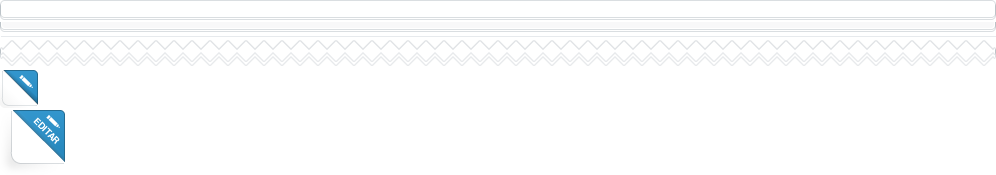
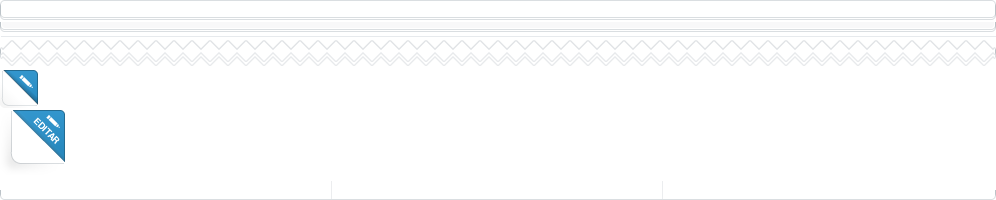
Fixes home index

diff --git a/public/stylesheets/main.css b/public/stylesheets/main.css
@@ -1409,9 +1409,11 @@ body.home #container .article.participation div.wrap div.login_block { width: 10
 body.home #container .article.participation div.wrap div.login_block p { float: right; font-size: 18px; }
 body.home #container .article.participation div.wrap div.login_block p a { font: bold 18px "Helvetica",Arial; }
 body.home #container .article.participation div.wrap div.login_block p a.blue_button { padding: 11px 30px; text-align: center; margin: 0 0 0 10px; }
-body.home #container .article#areas div.areas_list { position: relative; display: block; width: 994px; height: 488px; padding: 0; margin: 0; background: white; border-left: 1px solid #B5BDC4; border-right: 1px solid #B5BDC4; }
-body.home #container .article#areas div.areas_list ul { position: absolute; top: -9px; left: 0; width: 100%; margin: 0; background: none; border: none; }
+body.home #container .article#areas .f { bottom: -10px; background-position: 0 -181px; height: 19px; }
+body.home #container .article#areas div.areas_list { position: relative; display: block; width: 994px; padding: 0; margin: 0; background: white; border-left: 1px solid #B5BDC4; border-right: 1px solid #B5BDC4; }
+body.home #container .article#areas div.areas_list ul { position: relative; top: -9px; left: 0; width: 100%; margin: 0; background: none; border: none; }
 body.home #container .article#areas div.areas_list ul li { float: left; width: 270px; height: 74px; padding: 25px 30px; border-right: 1px solid #ECEDEF; border-bottom: 1px solid #ECEDEF; background: none; }
+body.home #container .article#areas div.areas_list ul li.small a { font-size: 16px; }
 body.home #container .article#areas div.areas_list ul li div.avatar { float: left; width: 67px; }
 body.home #container .article#areas div.areas_list ul li div.info { float: left; width: 190px; margin: 0 0 0 10px; padding: 10px 0 0 0; }
 body.home #container .article#areas div.areas_list ul li div.info h3 { font: bold 17px "Helvetica",Arial!important; }
@@ -1419,6 +1421,7 @@ body.home #container .article#areas div.areas_list ul li div.info h3 a { color: 
 body.home #container .article#areas div.areas_list ul li div.info span.total { display: block; margin: 5px 0 0 0; padding: 0; font-size: 13!important; color: #666666; }
 body.home #container .article#areas div.areas_list ul li div.info span.total a { font-size: 13px!important; }
 body.home #container .article#areas div.areas_list ul li.last { width: 272px; border-right: none; }
+body.home #container .article#areas div.areas_list ul li.last-row { margin-bottom: 0; border-bottom: none; }
 body.home #container .article#areas div.areas_list div.all_areas { position: absolute; display: none; top: 400px; }
 body.home #container .article#areas div.areas_list div.all_areas h4 { width: 100%; display: block; margin: 0 0 0 30px; font: bold 12px "Helvetica",Arial; color: #465866; text-transform: uppercase; }
 body.home #container .article#areas div.areas_list div.all_areas ul.list { position: relative; padding: 20px 0 0 0; }

diff --git a/public/stylesheets/style.css b/public/stylesheets/style.css
@@ -1565,9 +1565,11 @@ body.home #container .article.participation div.wrap div.login_block { width: 10
 body.home #container .article.participation div.wrap div.login_block p { float: right; font-size: 18px; }
 body.home #container .article.participation div.wrap div.login_block p a { font: bold 18px "Helvetica",Arial; }
 body.home #container .article.participation div.wrap div.login_block p a.blue_button { padding: 11px 30px; text-align: center; margin: 0 0 0 10px; }
-body.home #container .article#areas div.areas_list { position: relative; display: block; width: 994px; height: 488px; padding: 0; margin: 0; background: white; border-left: 1px solid #B5BDC4; border-right: 1px solid #B5BDC4; }
-body.home #container .article#areas div.areas_list ul { position: absolute; top: -9px; left: 0; width: 100%; margin: 0; background: none; border: none; }
+body.home #container .article#areas .f { bottom: -10px; background-position: 0 -181px; height: 19px; }
+body.home #container .article#areas div.areas_list { position: relative; display: block; width: 994px; padding: 0; margin: 0; background: white; border-left: 1px solid #B5BDC4; border-right: 1px solid #B5BDC4; }
+body.home #container .article#areas div.areas_list ul { position: relative; top: -9px; left: 0; width: 100%; margin: 0; background: none; border: none; }
 body.home #container .article#areas div.areas_list ul li { float: left; width: 270px; height: 74px; padding: 25px 30px; border-right: 1px solid #ECEDEF; border-bottom: 1px solid #ECEDEF; background: none; }
+body.home #container .article#areas div.areas_list ul li.small a { font-size: 16px; }
 body.home #container .article#areas div.areas_list ul li div.avatar { float: left; width: 67px; }
 body.home #container .article#areas div.areas_list ul li div.info { float: left; width: 190px; margin: 0 0 0 10px; padding: 10px 0 0 0; }
 body.home #container .article#areas div.areas_list ul li div.info h3 { font: bold 17px "Helvetica",Arial!important; }
@@ -1575,6 +1577,7 @@ body.home #container .article#areas div.areas_list ul li div.info h3 a { color: 
 body.home #container .article#areas div.areas_list ul li div.info span.total { display: block; margin: 5px 0 0 0; padding: 0; font-size: 13!important; color: #666666; }
 body.home #container .article#areas div.areas_list ul li div.info span.total a { font-size: 13px!important; }
 body.home #container .article#areas div.areas_list ul li.last { width: 272px; border-right: none; }
+body.home #container .article#areas div.areas_list ul li.last-row { margin-bottom: 0; border-bottom: none; }
 body.home #container .article#areas div.areas_list div.all_areas { position: absolute; display: none; top: 400px; }
 body.home #container .article#areas div.areas_list div.all_areas h4 { width: 100%; display: block; margin: 0 0 0 30px; font: bold 12px "Helvetica",Arial; color: #465866; text-transform: uppercase; }
 body.home #container .article#areas div.areas_list div.all_areas ul.list { position: relative; padding: 20px 0 0 0; }

diff --git a/public/scss/main.scss b/public/scss/main.scss
@@ -5397,11 +5397,16 @@ body.home {
 
     .article#areas {
 
+      .f {
+        bottom: -10px;
+        background-position: 0 -181px;
+        height: 19px;
+      }
+
       div.areas_list {
         position:relative;
         display:block;
         width:994px;
-        height:366px;
         padding:0;
         margin:0;
         background:white;
@@ -5409,7 +5414,7 @@ body.home {
         border-right:1px solid #B5BDC4;
 
         ul {
-          position:absolute;
+          position:relative;
           top:-9px;
           left:0;
           width:100%;
@@ -5425,6 +5430,7 @@ body.home {
             border-right:1px solid #ECEDEF;
             border-bottom:1px solid #ECEDEF;
             background:none;
+            &.small a { font-size:16px; }
 
             div.avatar {
               float:left;
@@ -5445,6 +5451,7 @@ body.home {
             }
 
             &.last {width:272px; border-right:none;}
+            &.last-row {margin-bottom:0; border-bottom:none;}
           }
         }
 

diff --git a/public/stylesheets/datalogger.css b/public/stylesheets/datalogger.css
@@ -21,7 +21,7 @@ form.signin input[type="checkbox"] { display: none; }
 
 .loader { padding: 20px 0 40px 0; text-align: center; color: #9FABB2; font-size: 13px; }
 
-.logo { background: url("/images/datalogger/logo.png") no-repeat; width: 180px; height: 57px; margin: 30px auto 18px auto; }
+.logo { background: url("/images/datalogger/logo.png") no-repeat; width: 180px; height: 57px; margin: 30px auto 18px auto; padding-right: 10px; }
 
 header { height: 64px; background: white; border-bottom: 1px solid #C6CCD1; position: fixed; top: 0; width: 320px; z-index: 310; }
 header .white_button, header .icon { z-index: 300; }

diff --git a/public/scss/datalogger.scss b/public/scss/datalogger.scss
@@ -40,6 +40,7 @@ form.signin {
   background:url('/images/datalogger/logo.png') no-repeat;
   width: 180px; height: 57px;
   margin:30px auto 18px auto;
+  padding-right:10px;
 }
 
 // =============================================================================
@@ -250,7 +251,7 @@ form.publish .white_button { position:relative; }
             padding-left: 16px;
             background: url('/images/icons/icon_sprite.png') no-repeat 0 -35px;
             color: #465866;
-      opacity:.5;
+            opacity:.5;
             font-size: 11px;
           }
         }
